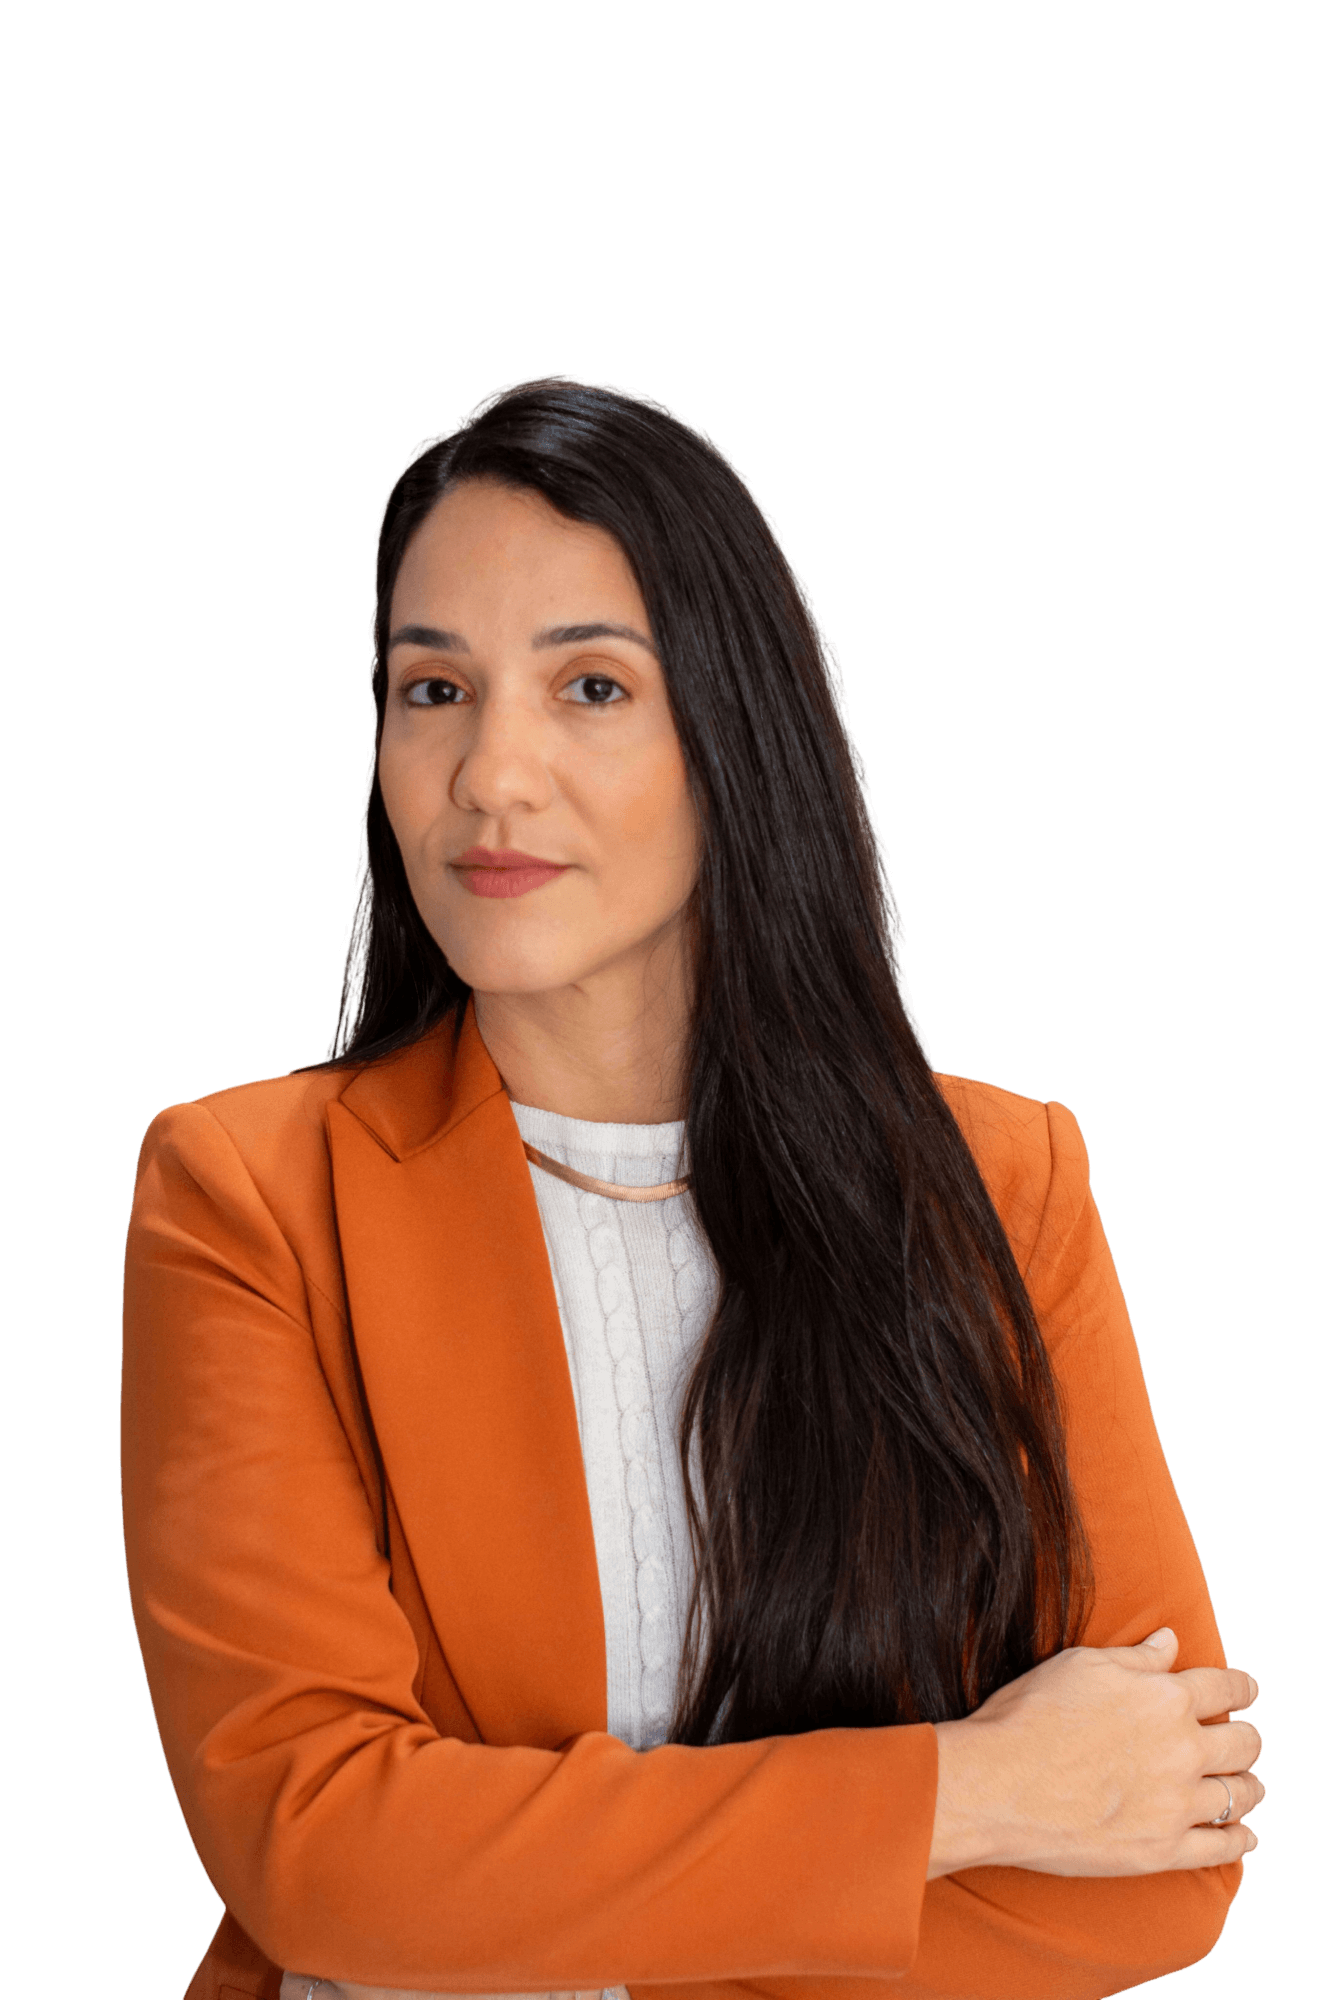
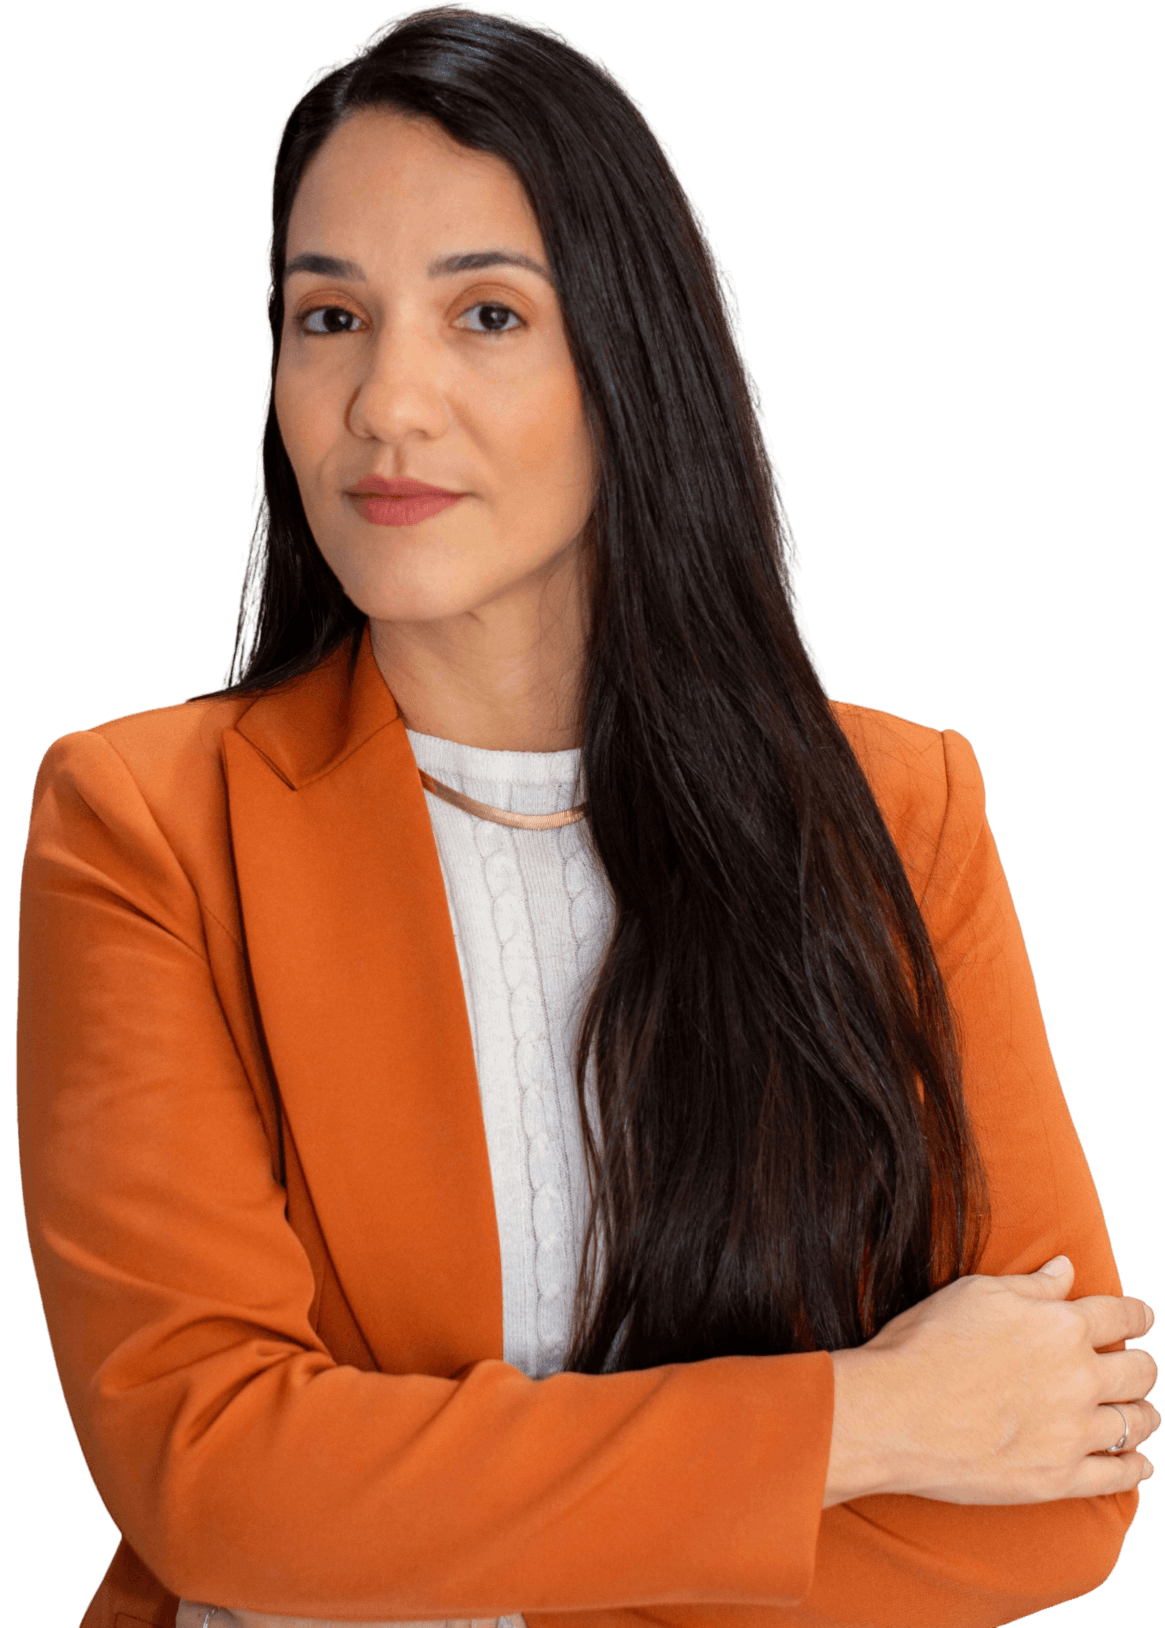
Update Renata Freitas portal layout and copy

diff --git a/styles.css b/styles.css
@@ -55,12 +55,12 @@ a {
   width: min(100%, 1040px);
   min-height: 100vh;
   margin: 0 auto;
-  padding: 120px 24px 64px;
+  padding: 36px 55px 55px;
 }
 
 .decor-frame {
   position: absolute;
-  inset: 166px 58px auto;
+  inset: 142px 58px auto;
   height: 980px;
   border: 2px solid var(--line);
   border-radius: 42px;
@@ -87,7 +87,7 @@ a {
 .hero-photo {
   position: absolute;
   z-index: 0;
-  top: 78px;
+  top: 145px;
   left: 50%;
   width: min(88vw, 720px);
   height: 1080px;
@@ -115,7 +115,7 @@ a {
 }
 
 .hero-photo-secondary {
-  top: 620px;
+  top: 580px;
   left: calc(50% + 242px);
   width: min(38vw, 300px);
   height: 500px;
@@ -176,7 +176,7 @@ a {
   position: relative;
   z-index: 1;
   width: min(100%, 480px);
-  margin: 198px auto 48px;
+  margin: 430px auto 48px;
   text-align: center;
 }
 
@@ -216,7 +216,7 @@ h1 {
   position: relative;
   z-index: 1;
   display: grid;
-  width: min(100%, 480px);
+  width: min(100%, 560px);
   gap: 20px;
   margin: 0 auto;
 }
@@ -315,7 +315,7 @@ h1 {
   position: relative;
   z-index: 2;
   display: grid;
-  width: min(72%, 332px);
+  width: min(68%, 360px);
   align-self: start;
   gap: 8px;
 }
@@ -323,9 +323,9 @@ h1 {
 .card-portrait {
   position: absolute;
   z-index: 1;
-  right: -26px;
+  right: -58px;
   bottom: 0;
-  width: 49%;
+  width: 53%;
   height: 96%;
   overflow: hidden;
   opacity: 0.96;
@@ -460,6 +460,10 @@ h1 {
   line-height: 1.35;
 }
 
+.site-footer .copyright {
+  margin-top: 0;
+}
+
 .site-footer .disclaimer {
   max-width: 460px;
   margin: 10px auto 0;
@@ -506,7 +510,7 @@ h1 {
   }
 
   .bio-page {
-    padding: 78px 10px 42px;
+    padding: 36px 32px 55px;
   }
 
   .decor-frame {
@@ -516,7 +520,7 @@ h1 {
   }
 
   .hero-photo {
-    top: 72px;
+    top: 145px;
     left: 50%;
     width: min(100vw, 390px);
     height: 760px;
@@ -544,7 +548,7 @@ h1 {
   }
 
   .profile {
-    margin-top: 190px;
+    margin-top: 275px;
     margin-bottom: 28px;
   }
 
@@ -567,13 +571,13 @@ h1 {
   }
 
   .card-copy {
-    width: min(78%, 320px);
+    width: min(76%, 340px);
     gap: 7px;
   }
 
   .card-portrait {
-    right: 0;
-    width: 46%;
+    right: -42px;
+    width: 52%;
     opacity: 0.82;
   }
 
@@ -608,8 +612,7 @@ h1 {
 
 @media (max-width: 390px) {
   .bio-page {
-    padding-right: 8px;
-    padding-left: 8px;
+    padding: 36px 24px 55px;
   }
 
   .service-card {

diff --git a/index.html b/index.html
@@ -135,7 +135,7 @@
           <div class="card-copy">
             <span class="kicker">Sessão individual</span>
             <h2>EFT online</h2>
-            <span>Um encontro terapêutico online para acolher o que você sente e trabalhar ansiedade, medos, culpa, insegurança e emoções que ainda pesam.</span>
+            <span>Um espaço terapêutico online para cuidar da ansiedade, culpa, medo e insegurança.</span>
           </div>
           <span class="card-portrait" aria-hidden="true">
             <img src="assets/fotos/renata-freitas-fundo-transparente-4.png" alt="" width="1579" height="2000" loading="lazy" decoding="async">
@@ -158,7 +158,7 @@
           <div class="card-copy">
             <span class="kicker">Corpo e emoção</span>
             <h2>Ansiedade e bloqueios</h2>
-            <span>A EFT combina leves toques, presença e frases terapêuticas para ajudar o corpo a relaxar e a mente a encontrar mais clareza.</span>
+            <span>Uma técnica simples para apoiar o alívio emocional e a regulação do corpo.</span>
           </div>
           <span class="card-portrait" aria-hidden="true">
             <img src="assets/fotos/renata-freitas-fundo-transparente-3.png" alt="" width="1333" height="2000" loading="lazy" decoding="async">
@@ -181,7 +181,7 @@
           <div class="card-copy">
             <span class="kicker">Autoconfiança</span>
             <h2>Amor-próprio e auto-estima</h2>
-            <span>Resignifique suas crenças.</span>
+            <span>Ressignifique crenças e fortaleça uma relação mais amorosa com você.</span>
           </div>
           <span class="card-portrait" aria-hidden="true">
             <img src="assets/fotos/renata-freitas-fundo-transparente-4.png" alt="" width="1579" height="2000" loading="lazy" decoding="async">
@@ -204,7 +204,7 @@
           <div class="card-copy">
             <span class="kicker">Primeiro passo</span>
             <h2>Guia de tapping</h2>
-            <span>Conheça a EFT de forma simples e veja como a técnica pode apoiar sua regulação emocional.</span>
+            <span>Conheça o tapping e veja como a EFT pode apoiar sua regulação emocional.</span>
           </div>
           <span class="card-portrait" aria-hidden="true">
             <img src="assets/fotos/renata-freitas-fundo-transparente-camisa-branca.png" alt="" width="1333" height="2000" loading="lazy" decoding="async">
@@ -227,7 +227,7 @@
           <div class="card-copy">
             <span class="kicker">Conteúdo diário</span>
             <h2>Reflexões para sua jornada emocional</h2>
-            <span>Acompanhe conteúdos sobre EFT, leveza emocional, amor-próprio e caminhos possíveis para voltar para si.</span>
+            <span>Espaço para soltar o que pesa e se aproximar de si mesma.</span>
           </div>
           <span class="card-portrait" aria-hidden="true">
             <img src="assets/fotos/renata-freitas-fundo-transparente-6.png" alt="" width="1333" height="2000" loading="lazy" decoding="async">
@@ -249,8 +249,8 @@
 
       <footer class="site-footer">
         <img src="assets/fotos/renata-freitas-fundo-transparente-2.png" alt="" width="86" height="110" loading="lazy" decoding="async">
-        <p>©2026 Renata Freitas. Todos os direitos reservados.</p>
-        <p class="disclaimer">A EFT pode apoiar processos de cuidado emocional, mas não substitui acompanhamento médico ou psicológico quando necessário.</p>
+        <p class="copyright">©2026 Renata Freitas. Todos os direitos reservados.</p>
+        <p class="disclaimer">O atendimento em EFT atua como suporte ao equilíbrio emocional, respeitando a necessidade de acompanhamento clínico especializado quando necessário.</p>
       </footer>
     </main>
     <a